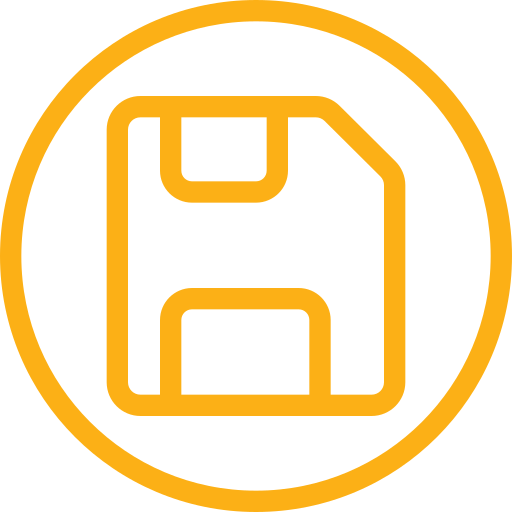
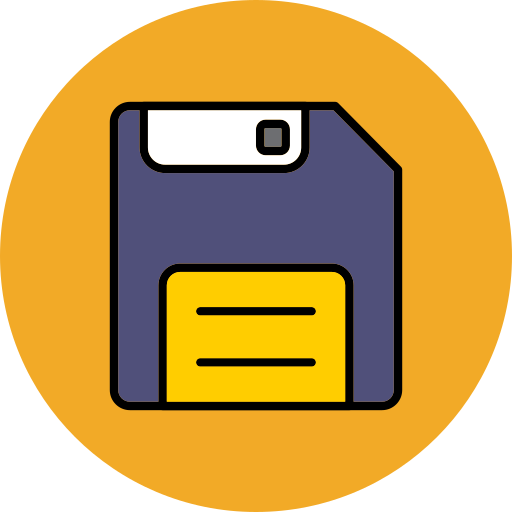
Updated search to notify the user of a save

diff --git a/src/collection/pages/Search.js b/src/collection/pages/Search.js
@@ -4,6 +4,9 @@ import { AuthContext } from '../../shared/context/auth-context';
 import Loading from '../../shared/components/Loading';
 import _ from 'lodash';
 
+import { ToastContainer, toast } from 'react-toastify';
+import 'react-toastify/dist/ReactToastify.css';
+
 import './Search.css';
 
 import back from '../../shared/assets/img/back.svg';
@@ -28,6 +31,20 @@ const Search = props => {
     const [collection, setCollection] = useState([]);
     const [isLoading, setIsLoading] = useState(false);
 
+    // Create a ref of collection
+    const collectionRef = useRef(collection);
+
+    const notify = () => toast.success(`Items saved to ${collectionName} collection`, {
+        position: "bottom-center",
+        autoClose: 2000,
+        hideProgressBar: false,
+        closeOnClick: true,
+        pauseOnHover: true,
+        draggable: true,
+        progress: undefined,
+        theme: "dark",
+    });
+
     useEffect(() => {
         auth.showFooterHandler(false);
         // Get all the items in the collection to check if any items in the search are already in the collection
@@ -42,11 +59,13 @@ const Search = props => {
             // Verify that data.items is not undefined
             if(data.items) {
                 setCollection(data.items);
+                collectionRef.current = data.items;
             }
         });
     }, []);
 
     const updateList = (search) => {
+        console.log("Here with search: ", search);
         if (search === '' || search === undefined || search === null) {
             setItems([]);
             setIsLoading(false);
@@ -62,10 +81,12 @@ const Search = props => {
 
             res.media.results.forEach(mediaItem => {
 
-                // Make sure the movie isn't already in the collection
+                // Make sure the item is not already in the collection
                 let inCollection = false;
-                collection.forEach(item => {
-                    if(item.itemId === mediaItem.id) {
+
+                // Check if item exists in collection ref
+                collectionRef.current.forEach(item => {
+                    if(item.itemId == mediaItem.id) {
                         inCollection = true;
                     }
                 });
@@ -151,6 +172,7 @@ const Search = props => {
             });
 
             setItems(updatedItems);
+            notify();
         }
     }
 
@@ -160,9 +182,22 @@ const Search = props => {
 
     return (
         <div className='content'>
+            <ToastContainer
+                position="bottom-center"
+                autoClose={2000}
+                hideProgressBar={false}
+                newestOnTop={false}
+                closeOnClick
+                rtl={false}
+                pauseOnFocusLoss
+                draggable
+                pauseOnHover
+                theme="dark"
+                style={{ textAlign: "center" }}
+            />
             <img src={back} alt="Back symbol" className="top-left" onClick={navBack} />
             <h2 className='title'>{collectionName}</h2>
-            <img src='https://cdn.glitch.global/7cdfb78e-767d-42ef-b9ca-2f58981eb393/save.png?v=1682394809855' className="edit" alt='Save icon' onClick={addItems} />
+            <img src='https://cdn.glitch.global/7cdfb78e-767d-42ef-b9ca-2f58981eb393/save.png?v=1682564025941' className="save-icon" alt='Save icon' onClick={addItems} />
             <input className='search-bar' placeholder='Search' onChange={changeHandler} />
             {
                 isLoading ? <Loading type='sync' className='list-loading' size={15} speed={.5} /> :

diff --git a/src/settings/pages/Settings.js b/src/settings/pages/Settings.js
@@ -201,8 +201,8 @@ const Settings = props => {
                             <a href="https://www.flaticon.com/free-icons/circle" title="circle icons">Circle icons created by Freepik - Flaticon</a>
                         </div>
                         <div className='flaticon-link'>
-                            <img src='https://cdn.glitch.global/7cdfb78e-767d-42ef-b9ca-2f58981eb393/save.png?v=1682394809855' />
-                            <a href="https://www.flaticon.com/free-icons/ui" title="ui icons">Ui icons created by Yogi Aprelliyanto - Flaticon</a>
+                            <img src='https://cdn.glitch.global/7cdfb78e-767d-42ef-b9ca-2f58981eb393/save.png?v=1682564025941' />
+                            <a href="https://www.flaticon.com/free-icons/save" title="save icons">Save icons created by designhub - Flaticon</a>
                         </div>
                     </div>
                 </div>

diff --git a/src/Party/pages/CreateParty.js b/src/Party/pages/CreateParty.js
@@ -139,7 +139,7 @@ const CreateParty = props => {
                     <p>Include Watched</p>
                     <img src={ includeWatched ? check : circle } onClick={() => { setIncludeWatched(!includeWatched) }} />
                 </div>
-                <div className='divider'></div>
+                <div className='create-divider'></div>
                 <div className='radio-btns'>
                     <label htmlFor="movie">Movies</label>
                     <input type='radio' name='mediaType' id='movie' value='movie' onChange={mediaTypeHandler} checked={mediaType === 'movie'} /> 

diff --git a/src/collection/pages/Search.css b/src/collection/pages/Search.css
@@ -1,0 +1,29 @@
+.Toastify__toast {
+    display: grid;
+    grid-template-columns: repeat(12, 1fr);
+    justify-items: center;
+    align-items: center;
+}
+
+.Toastify__toast-body {
+    align-items: center;
+    grid-column: 1/10;
+}
+
+.Toastify__close-button {
+    margin: 0;
+    grid-column: 10/13;
+    align-self: center;
+}
+
+:root {
+    --toastify-color-success: #FCB016;
+}
+
+.save-icon {
+    width: 50px;
+    position: fixed;
+    top: 30px;
+    right: 20px;
+    z-index: 100;
+}

diff --git a/src/Party/pages/CreateParty.css b/src/Party/pages/CreateParty.css
@@ -122,7 +122,7 @@
     cursor: pointer;
 }
 
-.divider {
+.create-divider {
     width: 100%;
     grid-column: 2/17;
     height: 1px;
